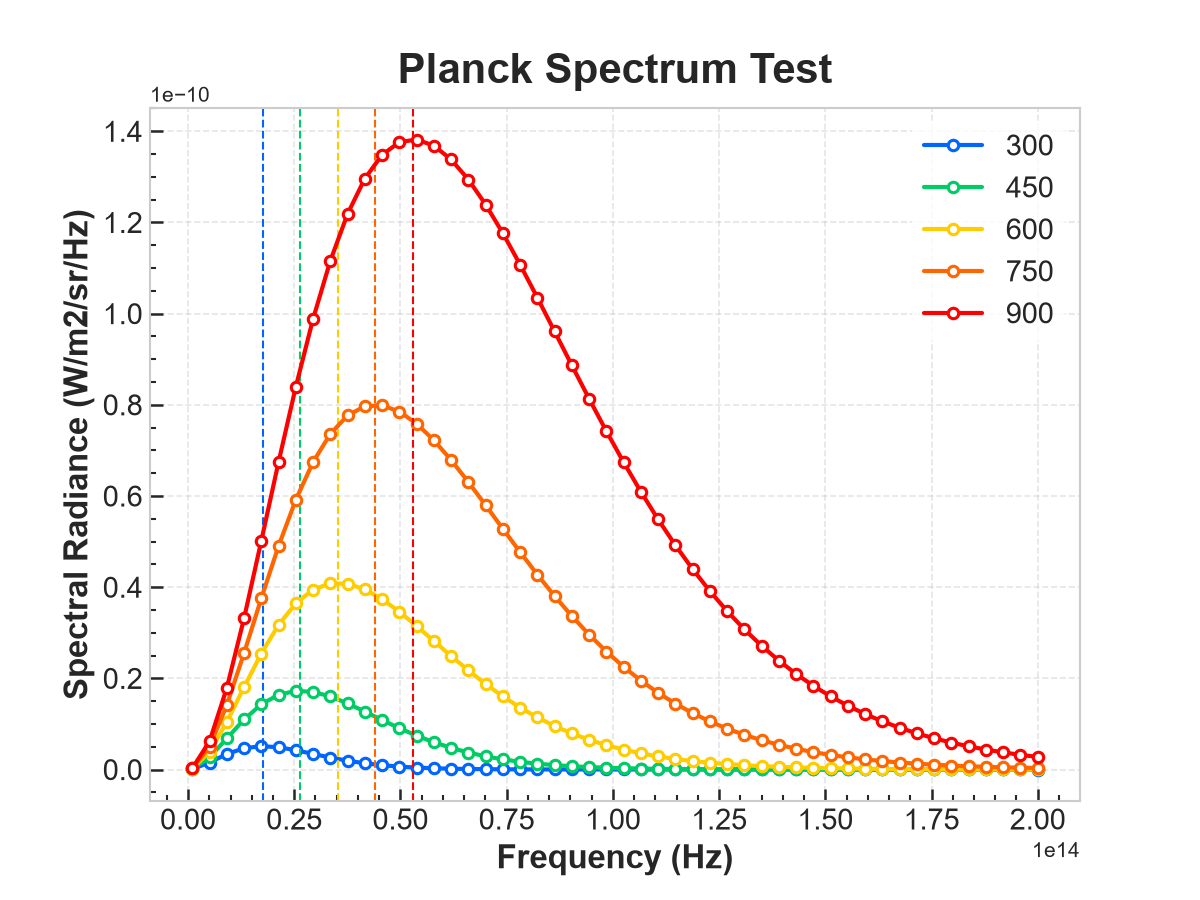
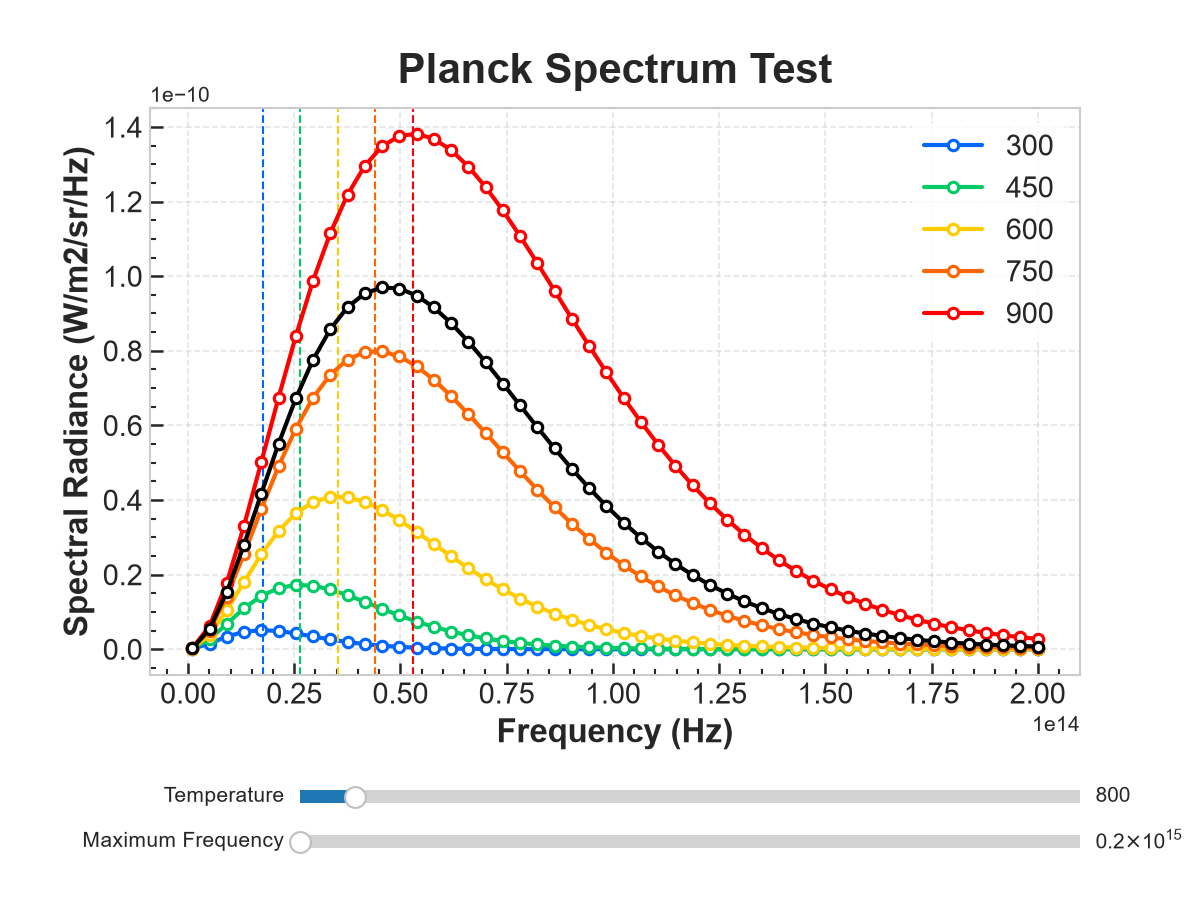
Spectrum test with sliders

diff --git a/src/playin_around.py b/src/playin_around.py
@@ -11,6 +11,7 @@ freq_range = np.linspace(10**12, 2*10**14, 50)
 # Plotting with publication-ready styling
 plt.style.use("seaborn-v0_8-whitegrid" if "seaborn-v0_8-whitegrid" in plt.style.available else "default")
 fig, ax = plt.subplots(figsize=(8, 6), dpi=150)
+plt.subplots_adjust(bottom=0.25)
 
 rainbow_colors = [
     '#FF0000',  # 1. Pure Red
@@ -44,6 +45,51 @@ for i in range(len(temps)):
         )
     ax.axvline(5.87892576 * 10**10 * temps[i], color=rainbow_colors[-i-1], linestyle='--', linewidth=1)
 
+initial_temp = 800
+initial_max_freq = 2*10**14
+special_freq_range = np.linspace(10**12, initial_max_freq, 50)
+curve, = ax.plot(special_freq_range,
+        planck_spectrum(special_freq_range, initial_temp),
+        color='black',      # Elegant crimson red
+        linewidth=2,
+        marker="o",
+        markersize=5,
+        markerfacecolor="white",
+        markeredgewidth=1.5,
+        )
+#line, = ax.axvline(5.87892576 * 10**10 * initial_temp, color='black', linestyle='-', linewidth=1)
+
+ax_slider1 = fig.add_axes([0.25, 0.1, 0.65, 0.03])
+temp_slider = Slider(
+    ax=ax_slider1,
+    label='Temperature',
+    valmin=100,
+    valmax=10000,
+    valinit=initial_temp,
+)
+ax_slider2 = fig.add_axes([0.25, 0.05, 0.65, 0.03])
+maximum_freq_slider = Slider(
+    ax=ax_slider2,
+    label='Maximum Frequency',
+    valmin=2*10**14,
+    valmax=2*10**15,
+    valinit=2*10**14,
+)
+
+# 3. Define the update function
+def update(val):
+    current_temp = temp_slider.val
+    current_max_freq = maximum_freq_slider.val
+    current_freq_range = np.linspace(10**12, current_max_freq, 50)
+    curve.set_ydata(planck_spectrum(current_freq_range, current_temp))
+    curve.set_xdata(current_freq_range)
+    ax.relim()
+    ax.autoscale_view()
+    fig.canvas.draw_idle()  # Redraw the figure efficiently
+
+# 4. Connect the slider to the update function
+temp_slider.on_changed(update)
+maximum_freq_slider.on_changed(update)
 
 # Axis labels and limits
 ax.set_xlabel("Frequency (Hz)", fontsize=16, fontweight="bold")
